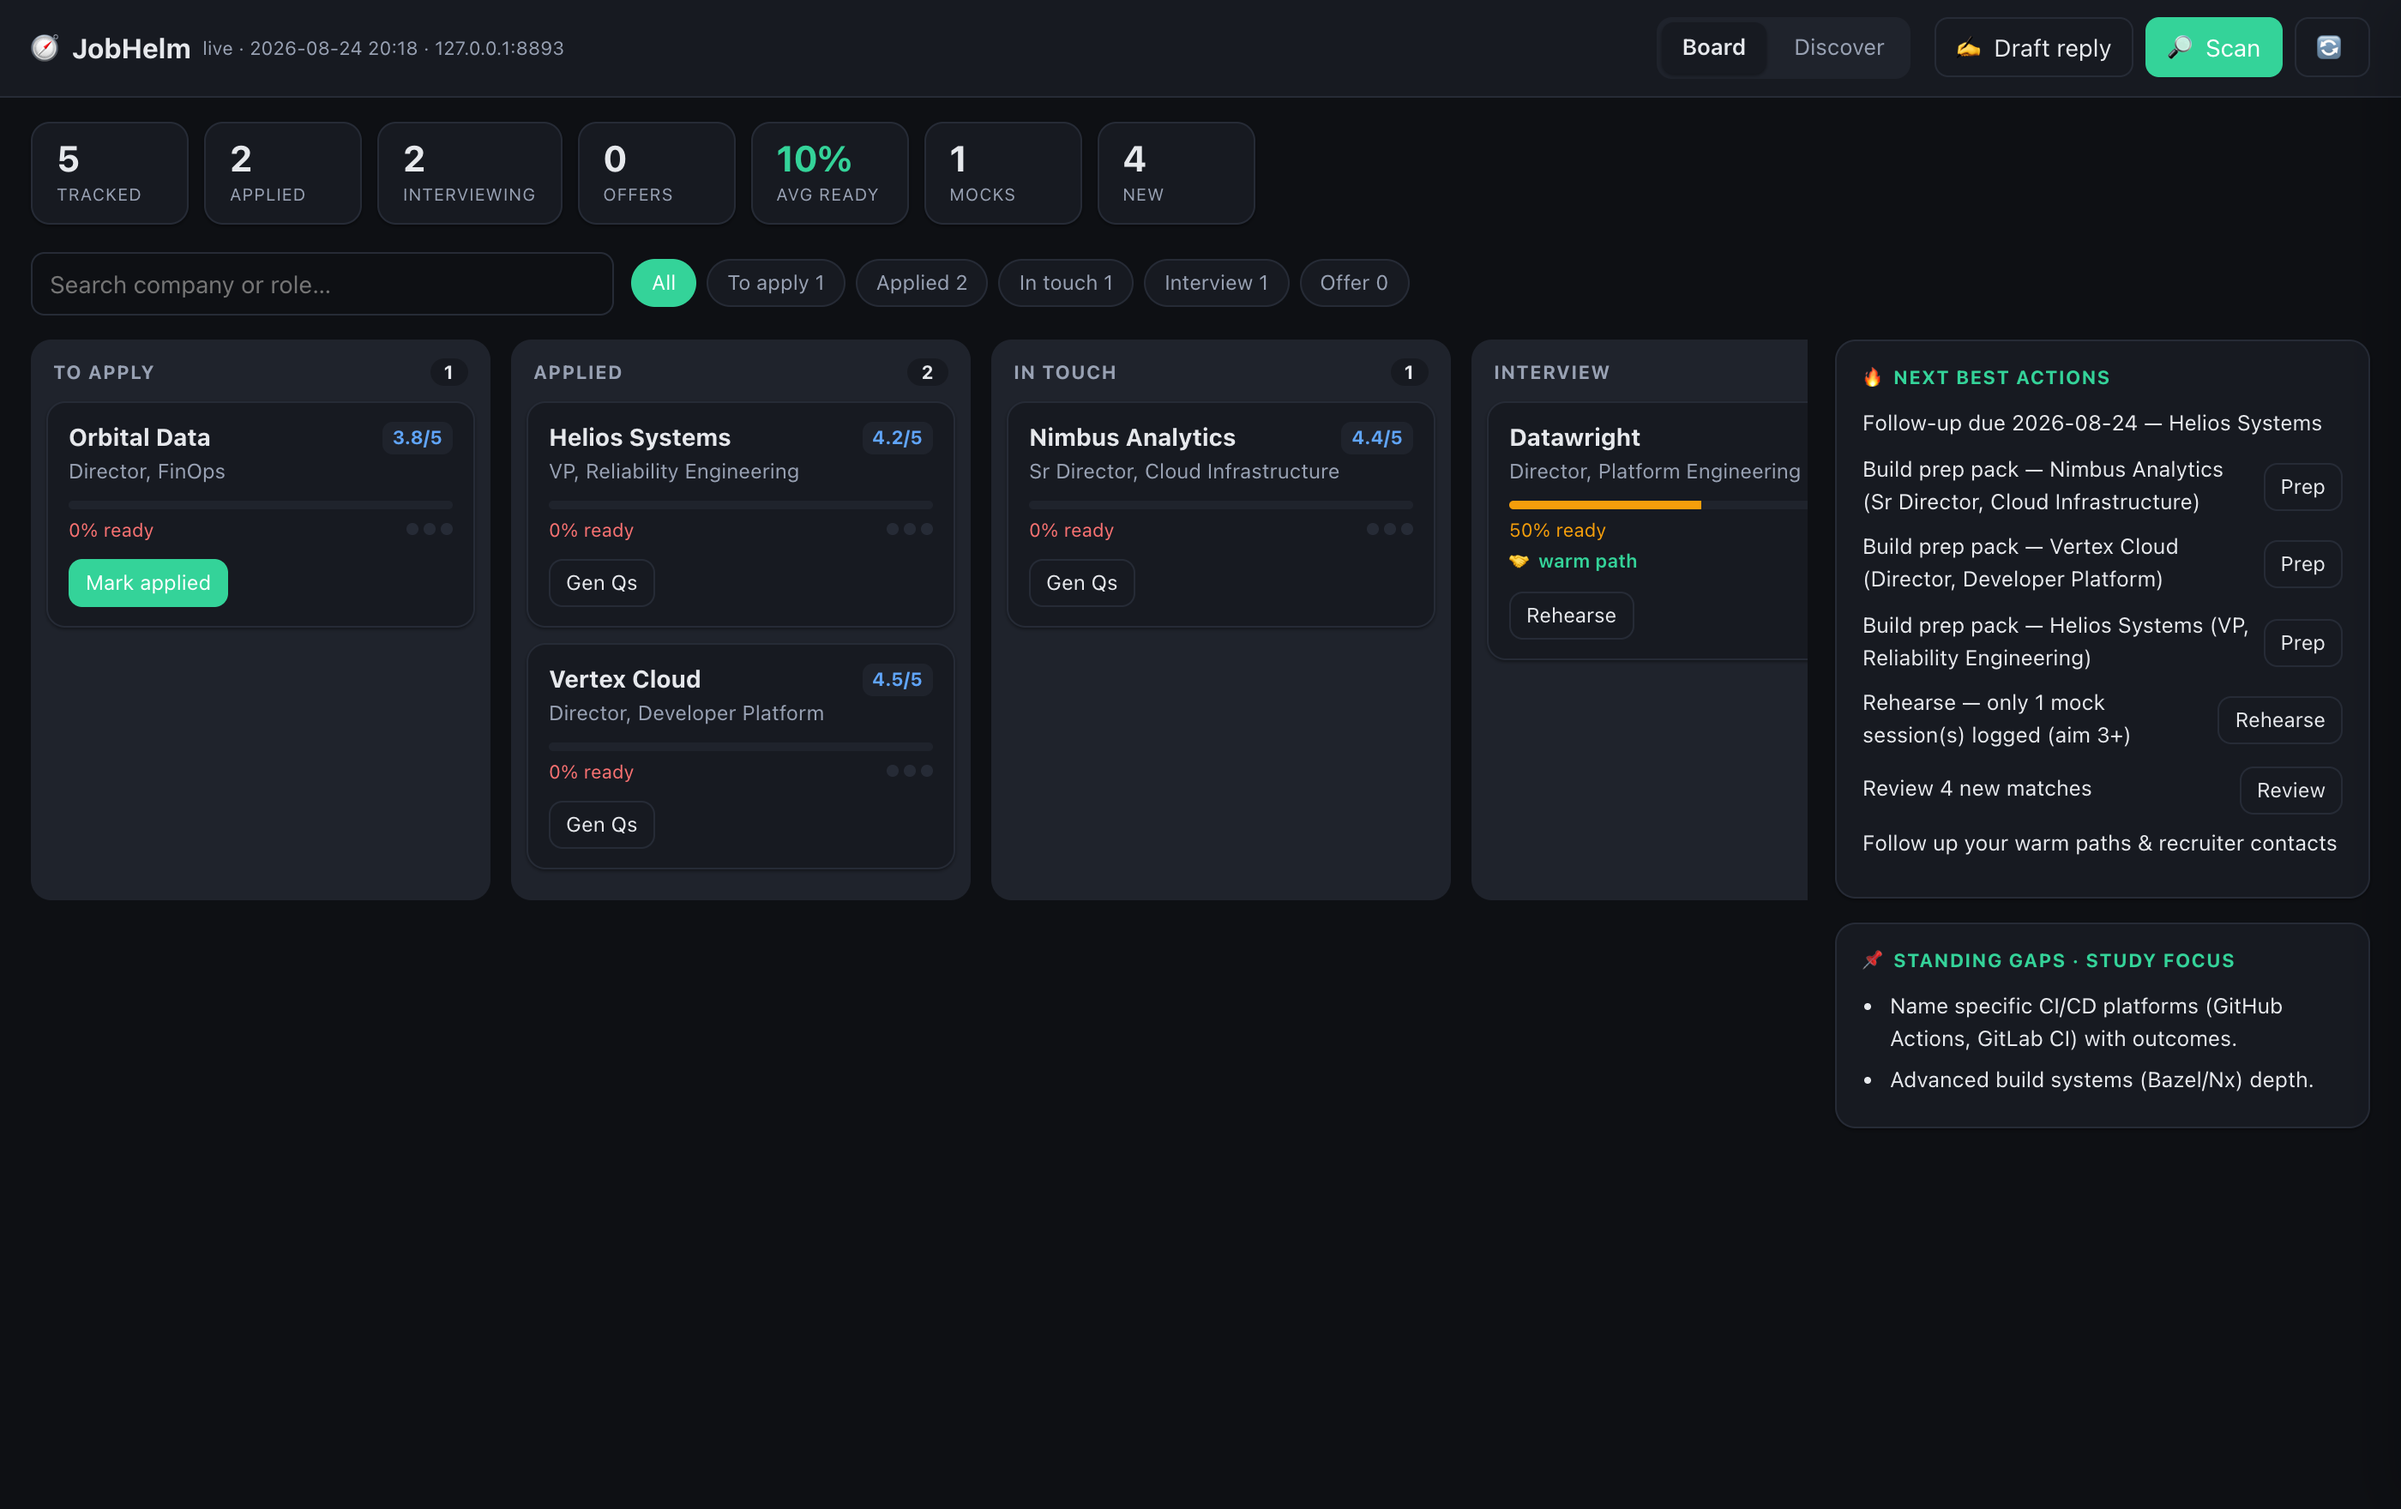
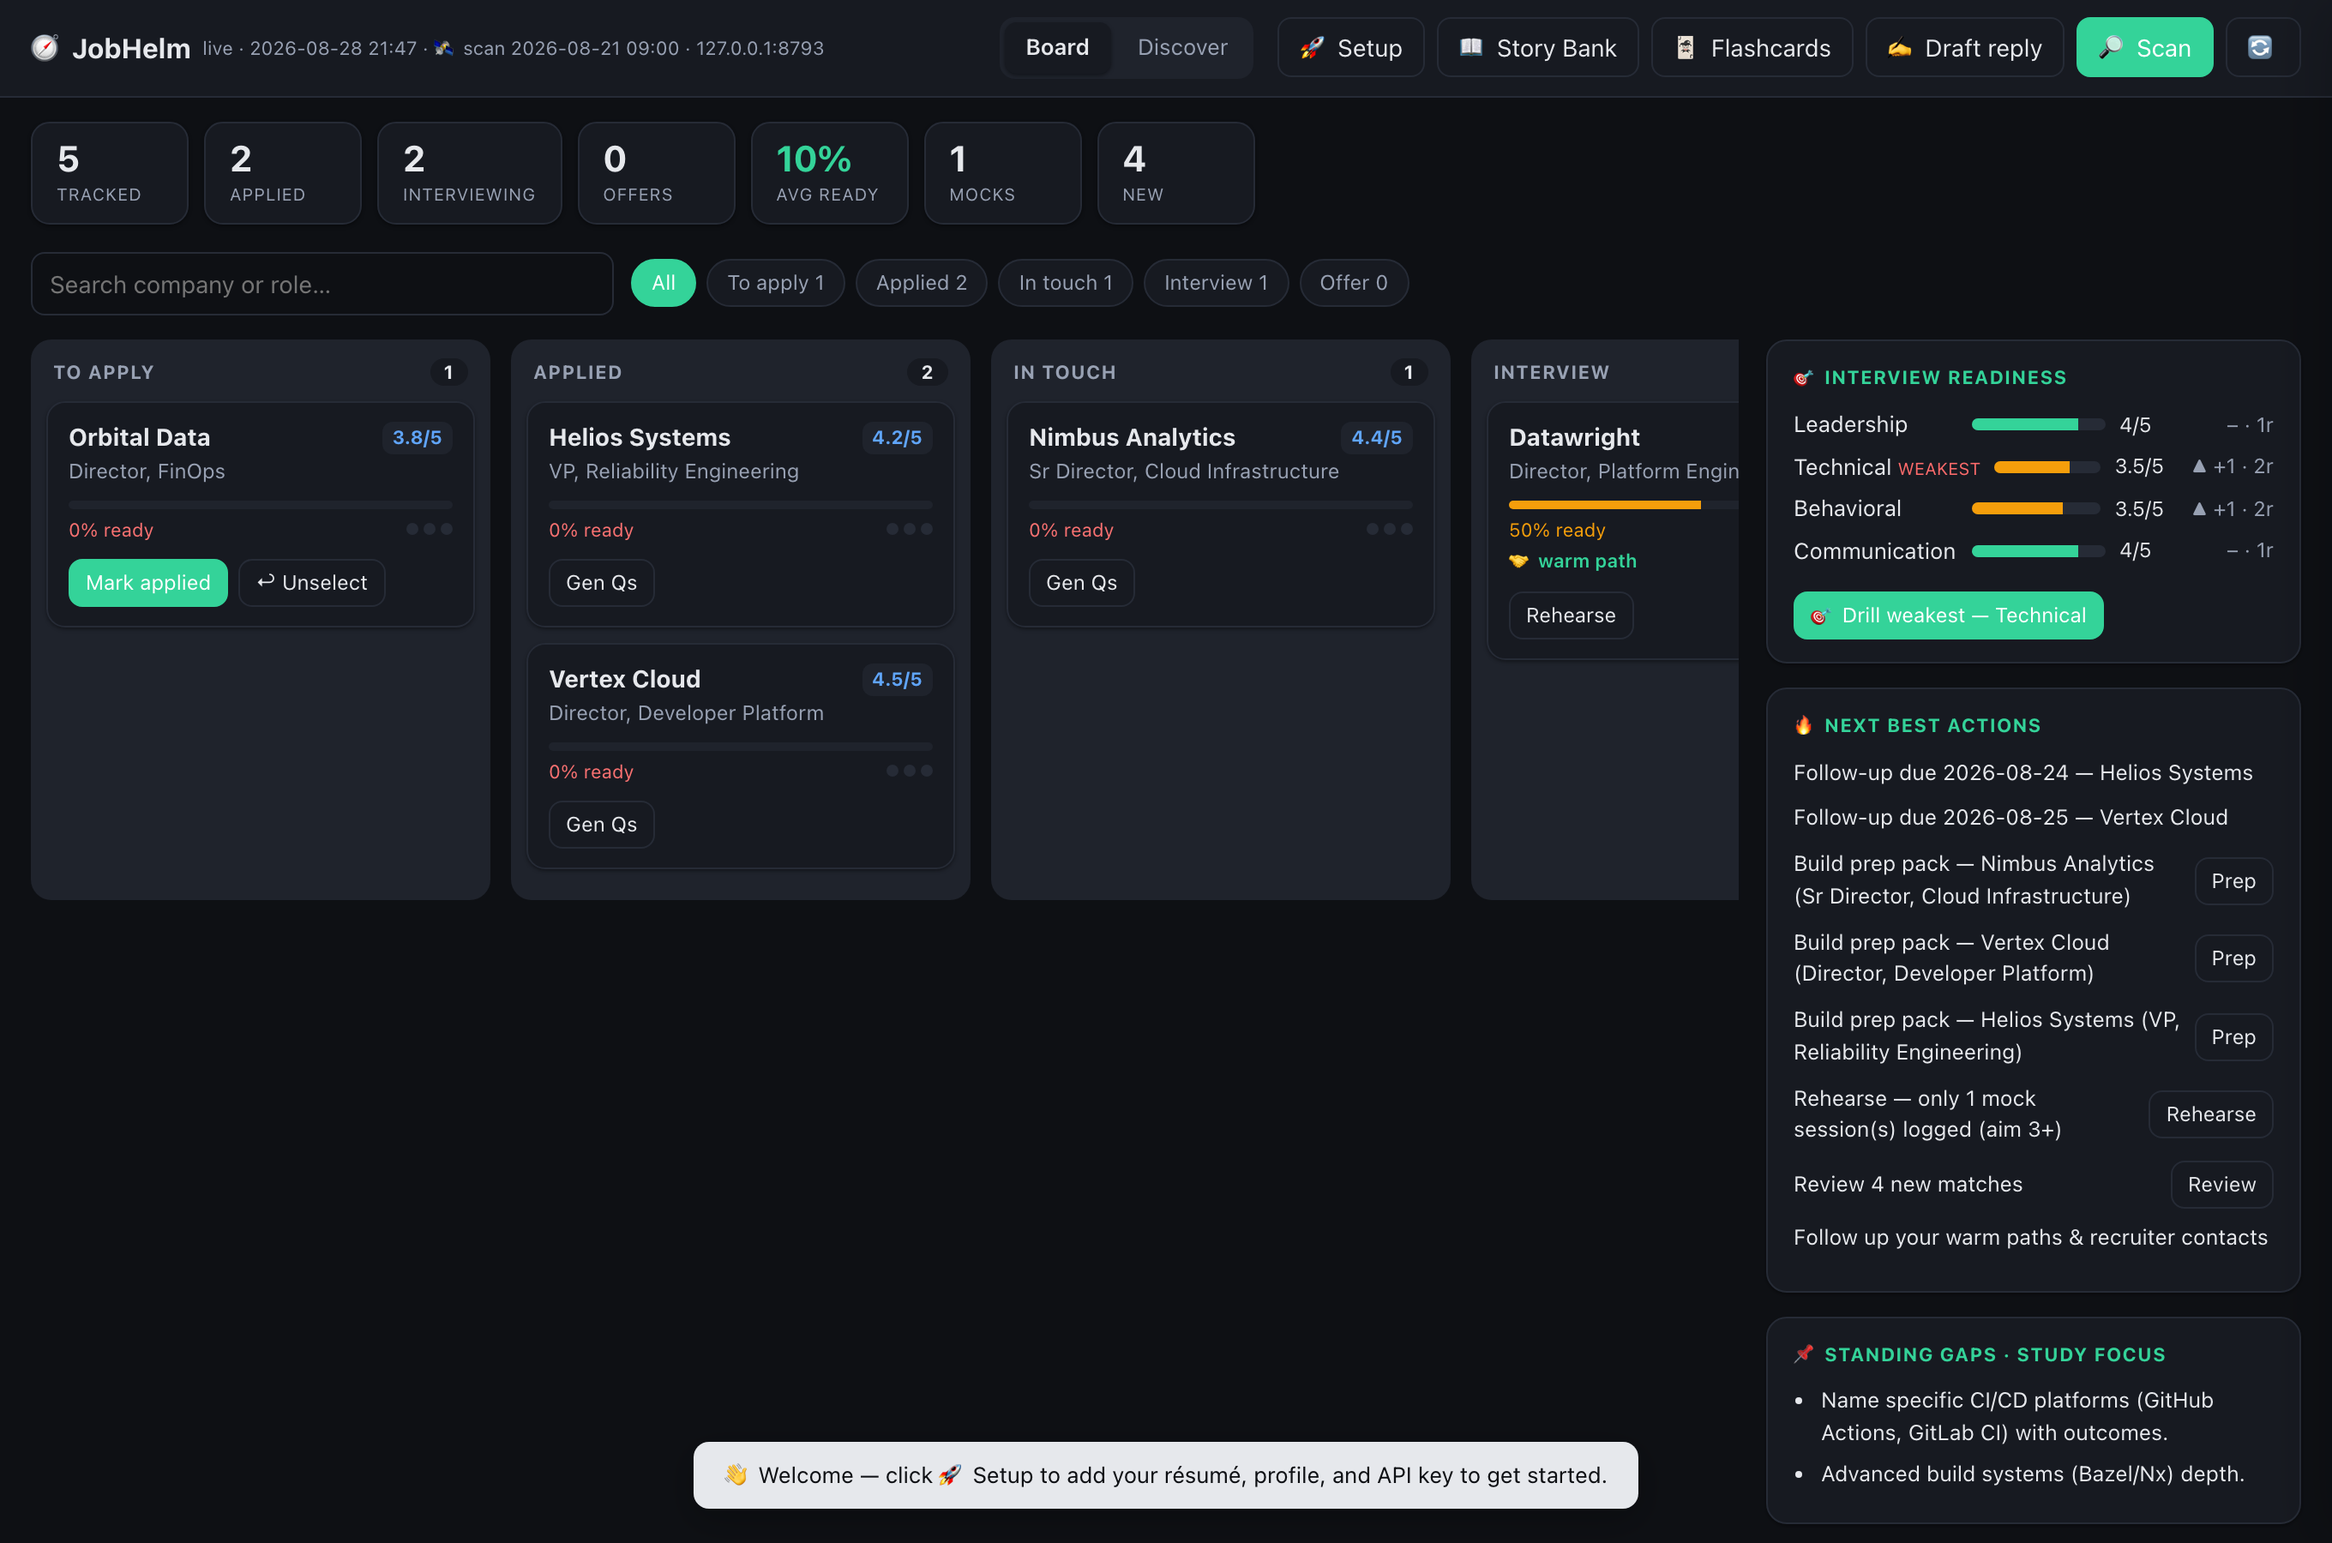
site: refresh board + drawer screenshots to current UI (readiness panel, drill, story bank/flashcards, interview-prep row, negotiation)
Captured from the demo board with fictional sample data; ship a sample
readiness.tsv so the demo shows the Interview Readiness chart populated.

diff --git a/docs/index.html b/docs/index.html
@@ -275,13 +275,13 @@ python3 jobhelm/mission-control.py</div>
   <div class="flow">
     <figure class="shot">
       <p class="cap"><span class="num">1</span>See your whole pipeline</p>
-      <img src="jobhelm-board.png" alt="JobHelm Kanban board: roles as cards across To apply, Applied, In touch, and Interview columns, each with a score and prep-readiness, plus a Next Best Actions rail" loading="lazy">
-      <figcaption>Every role as a card by stage, with score, prep-readiness, and a live "next best actions" rail. Search and stage filters up top.</figcaption>
+      <img src="jobhelm-board.png" alt="JobHelm Kanban board: roles as cards across To apply, Applied, In touch, and Interview columns, each with a score and prep-readiness; a right rail shows an Interview Readiness chart per dimension with a Drill-weakest button, plus Next Best Actions" loading="lazy">
+      <figcaption>Every role as a card by stage, with score and prep-readiness. The right rail charts your <strong>interview readiness per dimension</strong> (with a "drill weakest" button) and the next best actions. Story Bank and Flashcards live in the header.</figcaption>
     </figure>
     <figure class="shot">
       <p class="cap"><span class="num">2</span>Drill into any role</p>
-      <img src="jobhelm-drawer.png" alt="JobHelm role drawer: readiness bar at 50% from real practice, materials chips, gaps to close, warm path, and one-click actions to generate questions, open the pack, or rehearse" loading="lazy">
-      <figcaption>Click a card to open the drawer: honest readiness, materials, gaps to close, warm paths, and one-click prep, rehearse, brief, and draft-reply.</figcaption>
+      <img src="jobhelm-drawer.png" alt="JobHelm role drawer: readiness from real practice, materials chips, gaps to close, warm path, assisted apply, and an Interview Prep row (generate prep pack, questions, open pack, rehearse) plus Negotiation prep" loading="lazy">
+      <figcaption>Click a card to open the drawer: honest readiness, gaps, warm path, assisted apply, and a full <strong>Interview Prep</strong> row — generate the prep pack, rehearse, and <strong>negotiation prep</strong>, all in one place.</figcaption>
     </figure>
   </div>
   <p class="lead" style="font-size:13px;margin-top:14px">Shown with the bundled sample data — JobHelm renders this board the moment you clone. Readiness reflects <em>real practice</em> (a completed mock rep), not just prep files.</p>
